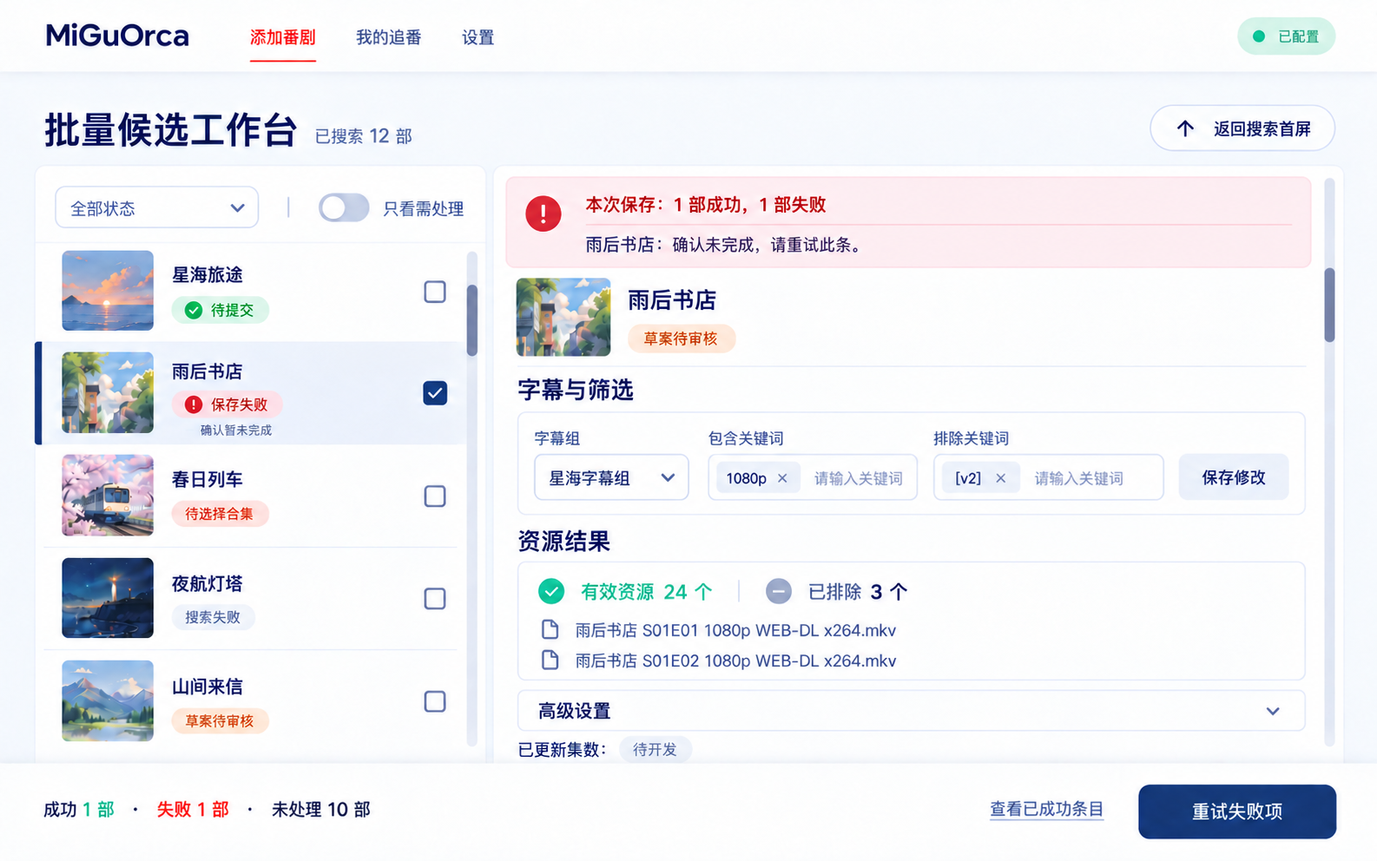
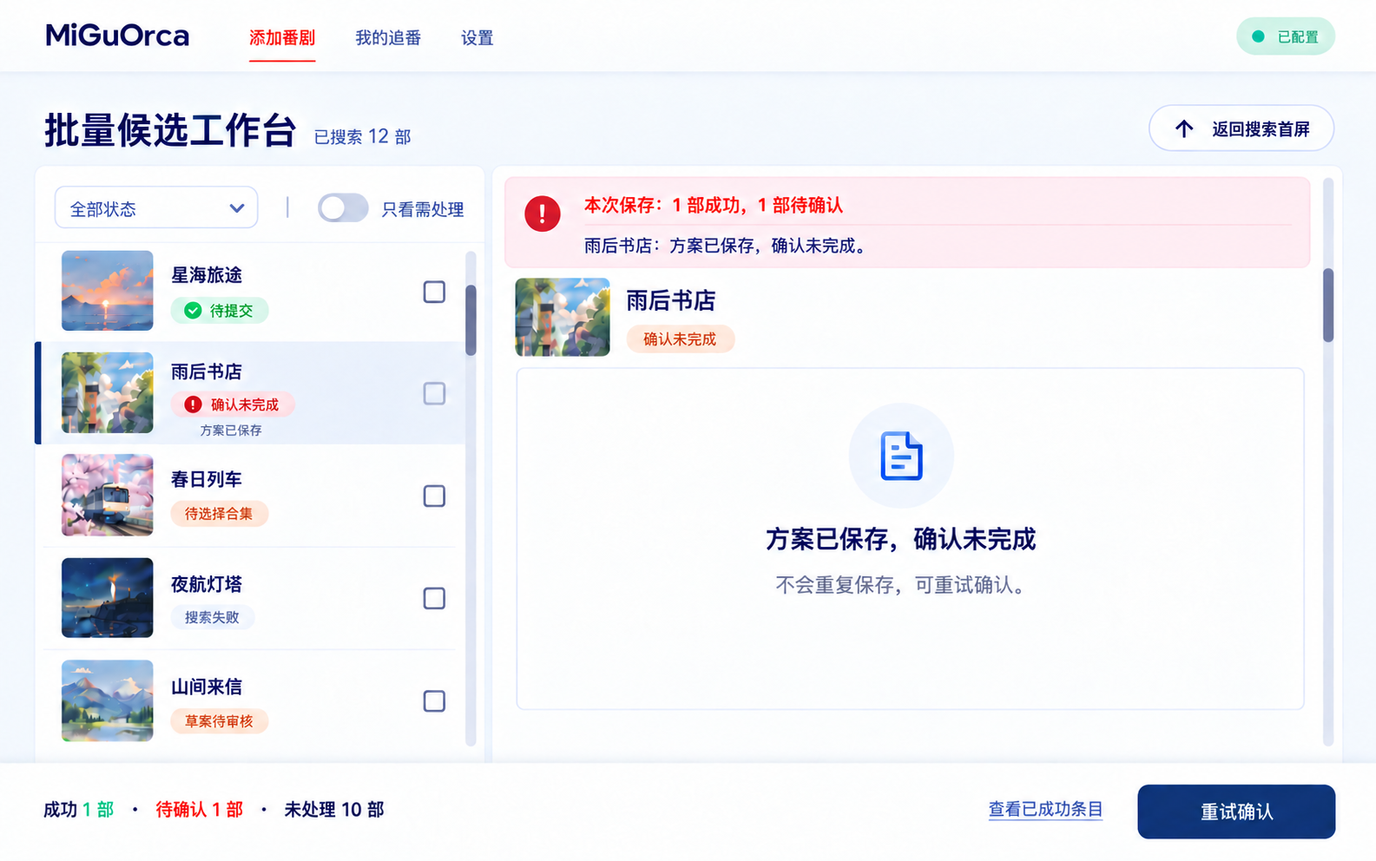
docs: 修订前端设计图的批量恢复与本地数据语义 (#108)

diff --git a/docs/design/frontend-ux-redesign-2026-09-23.md b/docs/design/frontend-ux-redesign-2026-09-23.md
@@ -1,6 +1,6 @@
 # 前端新版设计图与交互基线
 
-状态：21 张新版图的整体方向已获用户认可；本文记录目标设计与实现依赖，图片不是逐字或逐像素的业务契约。旧效果图已归档，仅作历史对照，不作为新版图的目标状态。本文须经独立 PR 合并后，才拆分前端实现任务。
+状态：21 张新版图的整体方向已获用户认可，原设计基线已由 PR #106 合并；本文记录目标设计与实现依赖，图片不是逐字或逐像素的业务契约。旧效果图已归档，仅作历史对照，不作为新版图的目标状态。本轮图 12、图 17 的局部修订已在工作区生成，仍待用户审核与独立 PR 合并；实现子 Issue 已提前发布，但合并前不得开工。
 
 ## 完整设计图清单
 
@@ -32,6 +32,8 @@
 
 全部图片由内置 imagegen 的 `ui-mockup`／定向编辑模式生成。图中小字、虚构样例和控件可用状态需以本文及现行产品契约核对；图像生成器不能单独确定业务规则或精确像素值。候选对照图表达「同宽、同排、居中」关系，其尺寸标注只作设计示意，正式 1280px 验证以实现测量为准。
 
+本轮只定向修订图 12、图 17，旧版保存在[局部修订前归档](assets/frontend-ux/archive/redesign-2026-09-24-local-revision/)中。图 12 表现的是「一部成功、一部方案已保存但确认未完成」的具体情形：待确认条目不能再次勾选保存，右侧不再保留草案编辑表单，仅在固定底栏提供一个「重试确认」主操作；其他失败类别按下文状态规则处理。图 17 将中间分组明确为「MiGuOrca 本地数据」，说明当前浏览器所用数据档案及切换不迁移原数据，不表示管理媒体下载路径。原图主要为 1586×992，图 12 本轮生成稿为 1585×992；此 1px 画布差不改变数值布局与浏览器验收基线。
+
 ## 视觉基准与滚动修订
 
 使用内置 imagegen 的 `ui-mockup` 模式生成三张新图，第二、三张参考第一张的视觉外壳；对批量图和追番图分别做了一次定向编辑，清除了生成器擅加的候选简介、类型标签、错误流程文案和随意日期。工具实际输出为 1586×992；正式实现仍按桌面 1280～1920 px 和 1440×900 主验收画布设计。图片中的番剧名称与封面均为虚构示例。
@@ -54,9 +56,9 @@
 - 追番中：五类状态、左列表右详情；已选条目展示安全摘要；修改外部订阅、暂停和刷新作为并列次操作，更多操作与诊断折叠。
 - 滚动修订：批量工作台左栏和右栏、我的追番列表和详情分别拥有可见的内部纵向滚动条；页面标题、状态总览和底部批量操作栏留在滚动容器外。
 - 单番补图：四候选必须一行居中；1～4 项对照保持卡片同宽；被点击候选就地加载且其余候选暂禁；草案审核才显示资源数；失败和无候选均在搜索首屏保留输入并就地恢复。
-- 批量补图：首屏保留多行输入；进度以已完成部数分段且不预估未完成项；候选和草案共用独立滚动的左右工作台；部分成功只对失败项提供重试，成功项转待提交。
+- 批量补图：首屏保留多行输入；进度以已完成部数分段且不预估未完成项；候选和草案共用独立滚动的左右工作台；部分成功只对失败项提供与失败原因匹配的恢复操作，成功项转待提交。
 - 追番补图：追番中三项管理操作并列；待提交突出「提交方案」；结果未知突出先核验且不能重复提交；复核失败明确尚未创建外部订阅并返回修改方案。
-- 设置与弹窗补图：默认偏好、存储、连接依次分组；连接编辑输入为空且不回显已保存秘密；提交方式弹窗按「取消／下载现有资源／持续追番」排列，取消有初始焦点；重搜与删除弹窗清楚说明影响范围。
+- 设置与弹窗补图：默认偏好、MiGuOrca 本地数据、连接依次分组；连接编辑输入为空且不回显已保存秘密；提交方式弹窗按「取消／下载现有资源／持续追番」排列，取消有初始焦点；重搜与删除弹窗清楚说明影响范围。
 
 ## 已确认的范围
 
@@ -69,7 +71,7 @@
 
 - 单番和批量都使用独占一屏的搜索首屏，并保留完整输入框。
 - 搜索成功后，候选或审核工作台位于下方第二屏；页面通过纵向整屏滚动／吸附在搜索首屏与工作台屏之间切换。在模块外空白处向上滚动或点击「返回搜索首屏」可返回输入区，不另设「修改搜索」概念。
-- 单番候选使用居中的卡片网格。1～4 个合集均在同一行内居中展示；卡片不提前展示草案阶段才有的有效资源数。
+- 单番候选使用居中的卡片网格。1～4 个合集均在同一行内居中展示；后端若返回超过四项，只展示前四项并给出简短截断提示，不增加复杂入口。卡片不提前展示草案阶段才有的有效资源数。
 - 批量搜索完成后的工作台同样位于第二屏，搜索输入保留在第一屏。
 - 「全屏封面首屏」指占满一屏、聚焦搜索任务的入口；不以大幅插画或背景为前提。番剧封面展示在候选与详情中。
 - 两屏交界处轻柔吸附；整页纵向滚动只负责搜索首屏与工作台屏的切换。工作台屏不因长内容增长，批量左侧条目列表和右侧候选／草案详情各有独立、可见的纵向滚动条；顶部页面标题和底部操作栏保持在工作台屏内。
@@ -82,17 +84,27 @@
 ## 我的追番与设置的已确认方向
 
 - 追番详情按当前条目状态突出一个最相关的主操作；常用次操作分组，危险操作和技术诊断收起。失败或结果未知时提升相应恢复动作。
-- 追番总览制作「追番中」「待提交」「结果未知／需处理」三张代表图，另以局部状态补图呈现提交前复核失败。追番中默认展示运行状态与方案摘要，修改、暂停和刷新放在同一管理操作组，不强行选其中一个作为常设强主按钮。
+- 追番总览制作「追番中」「待提交」「结果未知／需处理」三张代表图，另以局部状态补图呈现提交前复核失败。追番中默认展示运行状态与方案摘要，修改、暂停和刷新放在同一管理操作组，不强行选其中一个作为常设强主按钮。总集数与已更新集数在没有可信后端数据时显示「未知」，不得从资源数推断。
+- 追番详情已有服务端允许的外部管理操作、但尚未配置 Auto Bangumi 时，保留入口但禁用，并提示「先到设置连接 Auto Bangumi」；不得保留点击后无反馈的按钮。「缺少连接」仅指没有已保存的 AB 连接配置与所需凭据，不指探测失败或暂时不可达；只要已配置就允许发起操作，由服务端在请求中复核实际连接与能力。
+- 同一缺少连接提示适用于「提交方案」「重试提交」和「批量提交」。修改本地方案、纯本地复核等不依赖 AB 连接的操作不因此禁用；已配置 AB 后，提交按钮不得再以最近一次连接探测是否成功作为前端准入门槛。
 - 我的追番页面本身不随列表或详情展开而增长。番剧列表与追番详情分别占据视口中的固定可用高度，各有独立、可见的纵向滚动条；导航、页面标题和状态总览留在模块外，避免整页随内容随意滚动。
-- 设置页制作新版整体设计，顺序为「默认偏好 → 存储设置 → Auto Bangumi 连接状态与操作」。连接只在首次或变更时常用，不占首页顶部；配置与安全规则不变。
+- 设置页制作新版整体设计，顺序为「默认偏好 → MiGuOrca 本地数据 → Auto Bangumi 连接状态与操作」。中间分组沿用现有业务数据 profile 的设置语义，不管理 Auto Bangumi `downloader.path`；连接只在首次或变更时常用，不占首页顶部，配置与安全规则不变。图 17 已在本地修为正确术语，待审核合并。
 - 设置页目标图移除独立「高级诊断」区。当前代码仅在折叠面板内展示静态客户端名称和一条连接能力说明；连接测试结果放入连接卡片，提交失败诊断留在对应追番详情。
-- 设置首页先展示「默认偏好、存储设置、Auto Bangumi 连接」三个分组摘要。默认偏好排第一，展开后按字幕组、过滤、命名分段编辑；存储与连接在各自分组内编辑。
+- 设置首页先展示「默认偏好、MiGuOrca 本地数据、Auto Bangumi 连接」三个分组摘要。默认偏好排第一，展开后按字幕组、过滤、命名分段编辑；本地数据与连接在各自分组内编辑。数据档案选择沿用当前仅由当前浏览器记住的行为，界面说明为「当前浏览器使用的数据档案」，不新增服务端统一默认档案。修改 profile 时简短提示「切换数据档案不会移动原有数据；可切回原档案查看」，不新增迁移功能。
 
 ## 搜索反馈的已确认方向
 
 - 搜索失败、搜索成功但无候选都在搜索首屏就地提示与重试。无候选时优先请用户核对关键词；已有 MiKan 合集链接／编号的直连救援入口保留，但默认收起。
 - 批量搜索目标图使用按输入部数分段的真实进度条。找到候选、无候选、单部失败都算该部处理完成并推进一格；动画仅平滑到已完成位置，不预估未完成进度。
+- 批量搜索进行中始终停留在搜索首屏，只展示逐部进度，不让用户提前审核已找到的条目；整批结束后再进入工作台屏。
+- 批量搜索进度仅维持当前页面会话；刷新或关闭页面后不续接，重新进入需重新搜索。离开提示不得声称服务端请求已取消；当前后端没有任务查询、取消或续接契约。
 - 当前 `POST /api/v1/batches/parse` 只在整批完成后返回。后续实现需新增逐部完成事件或等价进度契约；设计图不得将时间估算误写为真实进度。
+
+## 批量保存失败的恢复呈现
+
+- 部分成功时仅对未成功条目提供与服务端结果匹配的恢复操作：已保存但确认未完成时「重试确认」；草案失效或版本冲突时「重新生成草案」；可再次保存的普通失败时「重试保存」。成功条目不再参与重试。
+- 保存确认响应未知或未决意图不显示普通「重试保存」；仅允许按既有契约核验或以冻结的原请求和同一幂等键重放，不生成新操作盲目重发。不能把所有失败压成一个统一「重试」按钮。
+- 图 12 已在本地将统一「重试失败项」和「保存失败」改为此例对应的「确认未完成／重试确认」，待审核合并；其他失败原因不能借用该按钮文案。
 
 ## 滚动边界与验图
 
@@ -104,7 +116,8 @@
 
 ## 后续安排
 
-- 本设计基线以独立 PR 合并。前端实现任务在此之后拆分；局部实施时如发现契约或交互冲突，再定向修订相应设计图。
+- 原设计基线已以独立 PR #106 合并。总规格见 GitHub Issue #107；局部修图门槛见 #108，实施子 Issue #109～#117 已提前发布并标记阻塞关系。#108 的设计 PR 经用户审核合并前不得启动前端实现；局部实施若发现契约或交互冲突，再定向修订相应设计图。
+- 实现按共用壳层，再依次按单番、批量、我的追番、设置逐包建立与确认数值基线；新版截图仅辅助人工对照，不直接作为像素差硬门禁。现有视觉测试中的旧布局期望随对应工作包更新，安全和状态边界继续保留。
 
 ## 后续实现依赖（仅记录，不在本轮实施）
 

diff --git a/docs/history/autobangumi-download-path-contract-research-2026-09-23.md b/docs/history/autobangumi-download-path-contract-research-2026-09-23.md
@@ -1,0 +1,37 @@
+# Auto Bangumi 3.1.18 下载路径配置契约调查
+
+归档结论（2026-09-23）：本轮设置页不提供 Auto Bangumi 下载路径修改功能，改为准确命名现有的「MiGuOrca 本地数据」分组。本调查只用于说明两种路径并非同一概念；不是现行开发规格，也不构成后续实施授权。
+
+> 调查日期：2026-09-23。范围：Auto Bangumi 官方仓库 `3.1.18` tag（指向 commit `81b3a4aacd41e93032d809b27a69ebdd431a4ed0`）、该 tag 内官方文档，以及当前 MiGuOrca 代码与契约。仅做静态只读调查；未访问真实 Auto Bangumi 实例，未执行配置写入。
+>
+> 版本锚点：[官方 Git tag ref](https://api.github.com/repos/EstrellaXD/Auto_Bangumi/git/ref/tags/3.1.18)。以下上游链接均固定在此 commit，避免把新版契约误当 3.1.18。
+
+## 结论
+
+**确定：**用户所说的下载器设置确实存在。3.1.18 的配置 JSON 字段是 `downloader.path`，UI 称为 **Download path**，默认值 `/downloads/Bangumi`；不是 `download_path` 这个 JSON 键，也不是 MiGuOrca 的 `storage_dir`。[官方配置模型](https://github.com/EstrellaXD/Auto_Bangumi/blob/81b3a4aacd41e93032d809b27a69ebdd431a4ed0/backend/src/module/models/config.py#L13-L21)、[官方下载器文档](https://github.com/EstrellaXD/Auto_Bangumi/blob/81b3a4aacd41e93032d809b27a69ebdd431a4ed0/docs/config/downloader.md#L43-L56)、[官方 Web UI 字段](https://github.com/EstrellaXD/Auto_Bangumi/blob/81b3a4aacd41e93032d809b27a69ebdd431a4ed0/webui/src/components/setting/config-download.vue#L49-L57)。MiGuOrca 的 `storage_dir` 则只解析服务端本地业务存储根下的相对 profile，语义不同；见 [`services.py`](../../src/apps/migu_orca_web/services.py#L66-L101)。
+
+**确定：**3.1.18 有认证后的 `GET /api/v1/config/get` 和 `PATCH /api/v1/config/update`，但没有在核对的配置路由中发现只读/修改 `downloader.path` 的独立端点。[官方路由](https://github.com/EstrellaXD/Auto_Bangumi/blob/81b3a4aacd41e93032d809b27a69ebdd431a4ed0/backend/src/module/api/config.py#L10-L37)、[路由前缀](https://github.com/EstrellaXD/Auto_Bangumi/blob/81b3a4aacd41e93032d809b27a69ebdd431a4ed0/backend/src/module/api/__init__.py#L13-L21)、[应用 `/api` 前缀](https://github.com/EstrellaXD/Auto_Bangumi/blob/81b3a4aacd41e93032d809b27a69ebdd431a4ed0/backend/src/main.py#L29-L35)。
+
+**确定：**MiGuOrca 当前没有这项 AB 配置读取/修改能力。现有设置端点管理的是 MiGuOrca 保存的 **AB 连接**（地址、认证秘密、安全摘要），以及连接探测，不是 AB 自身的 `downloader` 配置；见 [`routes_settings.py`](../../src/apps/migu_orca_web/routes_settings.py#L57-L128)、[`schemas.py`](../../src/apps/migu_orca_web/schemas.py#L308-L345) 与 [端点清单](../api/endpoint_inventory.md#L76-L78)。现有 3.1.18 管理 adapter 的读取对象是状态、番剧和 RSS，并在精确版本不符时拒绝；见 [`ab_management_client.py`](../../src/ab_engine/controllers/ab_management_client.py#L36-L59)。其 capability 模型没有下载路径能力项；见 [`management.py`](../../src/ab_engine/models/management.py#L16-L35)。
+
+## 3.1.18 API 与写入语义
+
+| 问题 | 判定 | 证据与边界 |
+| --- | --- | --- |
+| 读取 | **确定** | `GET /api/v1/config/get` 返回整个 `Config`，其中含 `downloader.path`，也含下载器和其他分区的秘密。不能把上游完整响应直接透传给 MiGuOrca 浏览器。[配置路由](https://github.com/EstrellaXD/Auto_Bangumi/blob/81b3a4aacd41e93032d809b27a69ebdd431a4ed0/backend/src/module/api/config.py#L14-L16)、[完整模型](https://github.com/EstrellaXD/Auto_Bangumi/blob/81b3a4aacd41e93032d809b27a69ebdd431a4ed0/backend/src/module/models/config.py#L13-L34)、[本仓库秘密边界](../MiGuOrca_stage39_deployment_settings_PRD.md#L89-L95)。 |
+| 写入 | **确定** | `PATCH /api/v1/config/update` 接收 JSON 的 `Config`，执行 `settings.save(config_dict=config.dict())`，随后 `settings.load()`；成功返回 HTTP 200 和 `msg_en/msg_zh`，异常返回 406。没有路径专用 PATCH。[配置路由](https://github.com/EstrellaXD/Auto_Bangumi/blob/81b3a4aacd41e93032d809b27a69ebdd431a4ed0/backend/src/module/api/config.py#L19-L37)、[官方 Web UI 调用](https://github.com/EstrellaXD/Auto_Bangumi/blob/81b3a4aacd41e93032d809b27a69ebdd431a4ed0/webui/src/api/config.ts#L13-L23)。 |
+| 局部更新还是完整替换 | **确定** | 尽管 HTTP 动词是 PATCH，服务端保存的是整个 `Config.dict()`，`Settings.save` 以 `"w"` 打开整份配置文件并序列化完整对象；`Config` 的各分区有默认值，故只发送 `{"downloader":{"path":...}}` 不构成安全的局部合并，缺失字段可能被默认值取代。[路由](https://github.com/EstrellaXD/Auto_Bangumi/blob/81b3a4aacd41e93032d809b27a69ebdd431a4ed0/backend/src/module/api/config.py#L19-L25)、[模型默认值](https://github.com/EstrellaXD/Auto_Bangumi/blob/81b3a4aacd41e93032d809b27a69ebdd431a4ed0/backend/src/module/models/config.py#L112-L123)、[磁盘写入](https://github.com/EstrellaXD/Auto_Bangumi/blob/81b3a4aacd41e93032d809b27a69ebdd431a4ed0/backend/src/module/conf/config.py#L45-L49)。 |
+| 认证 | **确定** | 两个配置路由均依赖 `get_current_user`：从名为 `token` 的 Cookie 验证 JWT 且用户名必须在进程内 `active_user`。登录为 `POST /api/v1/auth/login`，提交 OAuth2 password form 的用户名/密码，成功时设置 `token` Cookie。登录响应也含 access token，但配置路由读取 Cookie，不按 Bearer 头认证。[配置路由](https://github.com/EstrellaXD/Auto_Bangumi/blob/81b3a4aacd41e93032d809b27a69ebdd431a4ed0/backend/src/module/api/config.py#L14-L22)、[认证依赖](https://github.com/EstrellaXD/Auto_Bangumi/blob/81b3a4aacd41e93032d809b27a69ebdd431a4ed0/backend/src/module/security/api.py#L14-L25)、[登录](https://github.com/EstrellaXD/Auto_Bangumi/blob/81b3a4aacd41e93032d809b27a69ebdd431a4ed0/backend/src/module/api/auth.py#L22-L31)。本仓库已有同版本登录/Cookie adapter，但只用于现有能力；见 [`ab_management_client.py`](../../src/ab_engine/controllers/ab_management_client.py#L184-L206)。 |
+| 并发保护、单字段写入 | **未知/未见** | 所核对的配置路由没有 revision、ETag、compare-and-swap 或字段级 patch 参数；整份配置读改写可能覆盖并发修改。不能把 MiGuOrca 保存连接的 `configuration_revision` 当作 AB 配置版本；它只约束 MiGuOrca 自己的连接文件。[官方配置路由](https://github.com/EstrellaXD/Auto_Bangumi/blob/81b3a4aacd41e93032d809b27a69ebdd431a4ed0/backend/src/module/api/config.py#L14-L37)、[本仓库连接版本语义](../MiGuOrca_stage39_deployment_settings_PRD.md#L77-L85)。 |
+
+## 路径含义与应用时机
+
+- **确定：**官方文档要求 `downloader.path` 与下载器视角下的路径参数一致。Docker 示例中 qB 的 `/downloads` 映射到宿主机目录，AB 应填 `/downloads/Bangumi`；Linux/macOS、Windows 示例同样按下载器的目录写。官方说明 AB 使用此值生成番剧文件路径，AB 自身不直接管理该路径下的文件。因此它不是 MiGuOrca 服务进程的本地存储目录，也不能直接推定是 AB 容器内必须挂载的目录。[官方下载器文档](https://github.com/EstrellaXD/Auto_Bangumi/blob/81b3a4aacd41e93032d809b27a69ebdd431a4ed0/docs/config/downloader.md#L32-L41)、[官方组合部署示例](https://github.com/EstrellaXD/Auto_Bangumi/blob/81b3a4aacd41e93032d809b27a69ebdd431a4ed0/docs/resource/docker-compose/qBittorrent+AutoBangumi/docker-compose.yml#L3-L24)、[生成 save_path 的源码](https://github.com/EstrellaXD/Auto_Bangumi/blob/81b3a4aacd41e93032d809b27a69ebdd431a4ed0/backend/src/module/downloader/path.py#L55-L61)。
+- **确定：**生成的新番剧路径是 `downloader.path / 番剧文件夹 / Season N`，并可作为 qB RSS 规则 `savePath` 或添加 torrent 时的 `save_path`。若配置路径为空，下载器初始化会读取 qB 默认 `save_path` 并在内存中附加 `Bangumi`；没有证据表明这个回填会立即保存回 AB 配置 JSON。[路径生成](https://github.com/EstrellaXD/Auto_Bangumi/blob/81b3a4aacd41e93032d809b27a69ebdd431a4ed0/backend/src/module/downloader/path.py#L55-L61)、[下载器逻辑](https://github.com/EstrellaXD/Auto_Bangumi/blob/81b3a4aacd41e93032d809b27a69ebdd431a4ed0/backend/src/module/downloader/download_client.py#L56-L90)、[添加 torrent](https://github.com/EstrellaXD/Auto_Bangumi/blob/81b3a4aacd41e93032d809b27a69ebdd431a4ed0/backend/src/module/downloader/download_client.py#L117-L143)。
+- **确定：**配置 PATCH 会写磁盘并重载全局 `settings`，但路由本身没有调用程序 restart。3.1.18 官方 Web UI 在 PATCH 成功后另行调用 `/api/v1/restart`；该 restart 会 stop/start 内部工作线程，`start()` 再次加载配置。因此“PATCH 成功”与“官方 UI 完成应用流程”是两个步骤。[配置路由](https://github.com/EstrellaXD/Auto_Bangumi/blob/81b3a4aacd41e93032d809b27a69ebdd431a4ed0/backend/src/module/api/config.py#L19-L27)、[Web UI store](https://github.com/EstrellaXD/Auto_Bangumi/blob/81b3a4aacd41e93032d809b27a69ebdd431a4ed0/webui/src/store/config.ts#L11-L20)、[restart 路由](https://github.com/EstrellaXD/Auto_Bangumi/blob/81b3a4aacd41e93032d809b27a69ebdd431a4ed0/backend/src/module/api/program.py#L30-L36)、[Program.restart/start](https://github.com/EstrellaXD/Auto_Bangumi/blob/81b3a4aacd41e93032d809b27a69ebdd431a4ed0/backend/src/module/core/program.py#L61-L72)。
+- **推断：**新路径影响后续由 AB 生成的规则/任务路径；没有从上述配置路由看到既有番剧、已创建的 qB 规则、下载任务或媒体迁移逻辑。不能承诺修改配置会搬迁已有下载或追溯修改原规则。[配置路由](https://github.com/EstrellaXD/Auto_Bangumi/blob/81b3a4aacd41e93032d809b27a69ebdd431a4ed0/backend/src/module/api/config.py#L19-L37)、[规则生成](https://github.com/EstrellaXD/Auto_Bangumi/blob/81b3a4aacd41e93032d809b27a69ebdd431a4ed0/backend/src/module/downloader/download_client.py#L72-L90)。
+- **未知：**在未运行真实 3.1.18 实例的前提下，无法证明只 PATCH 而不 restart 时所有正在运行的工作循环何时、是否采用新路径，也无法证明重启操作在具体部署中一定成功。官方 UI 的实际流程提示实现时需把写配置和应用结果分别处理。[Web UI store](https://github.com/EstrellaXD/Auto_Bangumi/blob/81b3a4aacd41e93032d809b27a69ebdd431a4ed0/webui/src/store/config.ts#L11-L20)。
+
+## 历史方案假设（不在现行需求内）
+
+当时曾考虑新增 AB 下载路径设置，以下仅保留技术推断，不纳入本轮或 #108～#117 的工作范围：若未来重新提出此功能，其目标应明确为读取/修改 **当前已保存且验证为 3.1.18 的 AB 连接所指向的 `downloader.path`**。服务端需在请求内读取 AB 全配置，保留其他分区和下载器认证字段，修改目标字段后提交完整配置；只把受控的路径结果暴露给必要编辑界面，绝不把 AB 全配置或秘密透传到浏览器。由于上游路由无可见版本锁，需要在未来规格中明确并发覆盖、写后核对、写成功但 restart 失败等状态处理。此处是实现约束推断，并非声称这些能力已存在。依据：[上游完整配置读写](https://github.com/EstrellaXD/Auto_Bangumi/blob/81b3a4aacd41e93032d809b27a69ebdd431a4ed0/backend/src/module/api/config.py#L14-L37)、[本仓库敏感信息边界](../MiGuOrca_stage39_deployment_settings_PRD.md#L89-L95)、[当前连接 API](../../src/apps/migu_orca_web/routes_settings.py#L57-L128)。

diff --git a/CONTEXT.md b/CONTEXT.md
@@ -5,11 +5,16 @@
 - **搜索首屏**：添加番剧入口中供用户输入单部或批量番剧名称的完整页面区域。搜索成功后仍可返回此处修改输入；避免把它称为「封面图」。
 - **工作台屏**：搜索首屏下方承载候选选择或草案审核的页面区域。单番的候选与草案是这里的两种阶段状态，不是两个一级页面。
 
+## 本地数据与下载路径
+
+- **MiGuOrca 本地数据**：MiGuOrca 保存的方案、追番记录等业务数据；其数据 profile 是这类数据的命名存储范围，不是下载媒体的位置。避免笼统称为「存储设置」。
+- **Auto Bangumi 下载路径**：Auto Bangumi 为下载器生成新番剧保存位置时使用的全局设置，由下载器所在环境解释；它不是 MiGuOrca 业务数据 profile。避免笼统称为「存储路径」。
+
 ## Auto Bangumi 部署连接
 
 - **连接草稿**：设置表单中的未保存连接信息。它只可用于当前页面的一次显式测试或保存操作，不能成为业务请求、浏览器持久化状态或公开 DTO。
 - **已验证连接草稿**：与一组完全相同的连接草稿绑定的成功只读测试结果。连接草稿任一字段变化都会使其失效。
-- **已保存连接**：部署端私有配置中持久化的 Auto Bangumi 连接 generation。客户端只能读取其安全摘要，不能读取或恢复其认证秘密。
+- **已保存连接**：部署端私有配置中持久化的 Auto Bangumi 连接 generation，与最近一次连接探测结果是不同概念。客户端只能读取其安全摘要，不能读取或恢复其认证秘密。
 
 ## 追番提交
 
